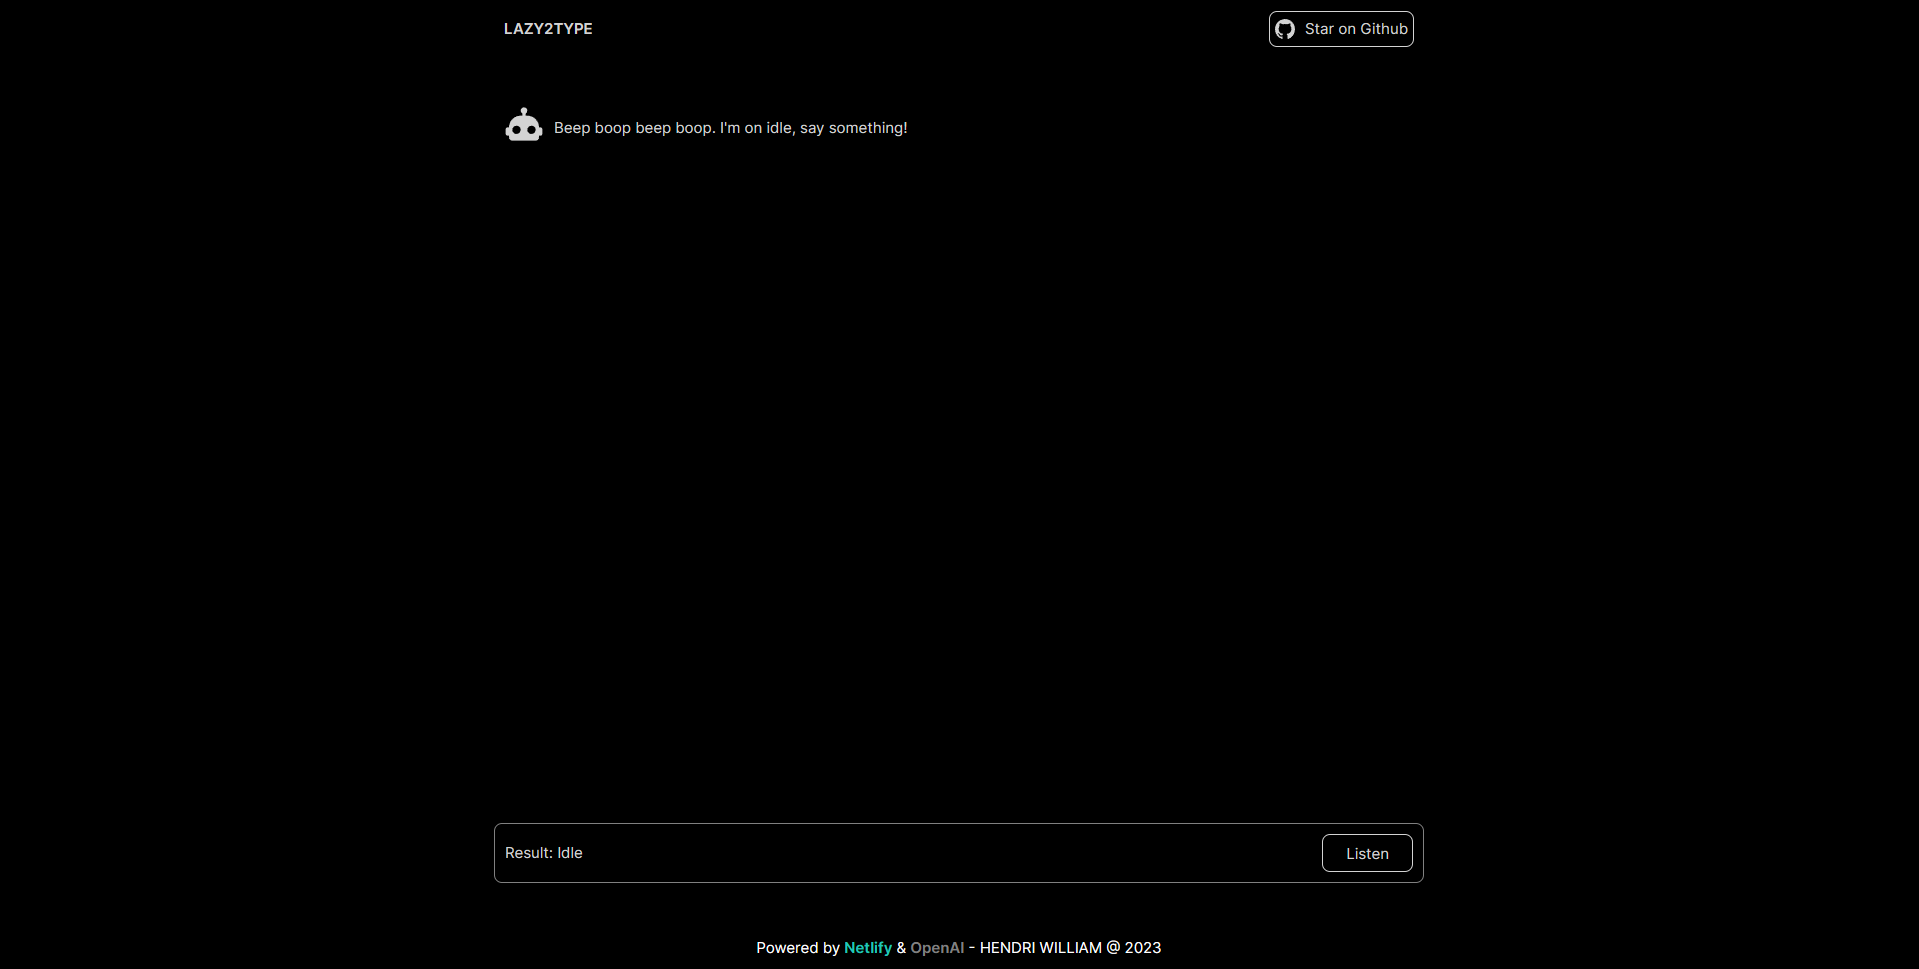
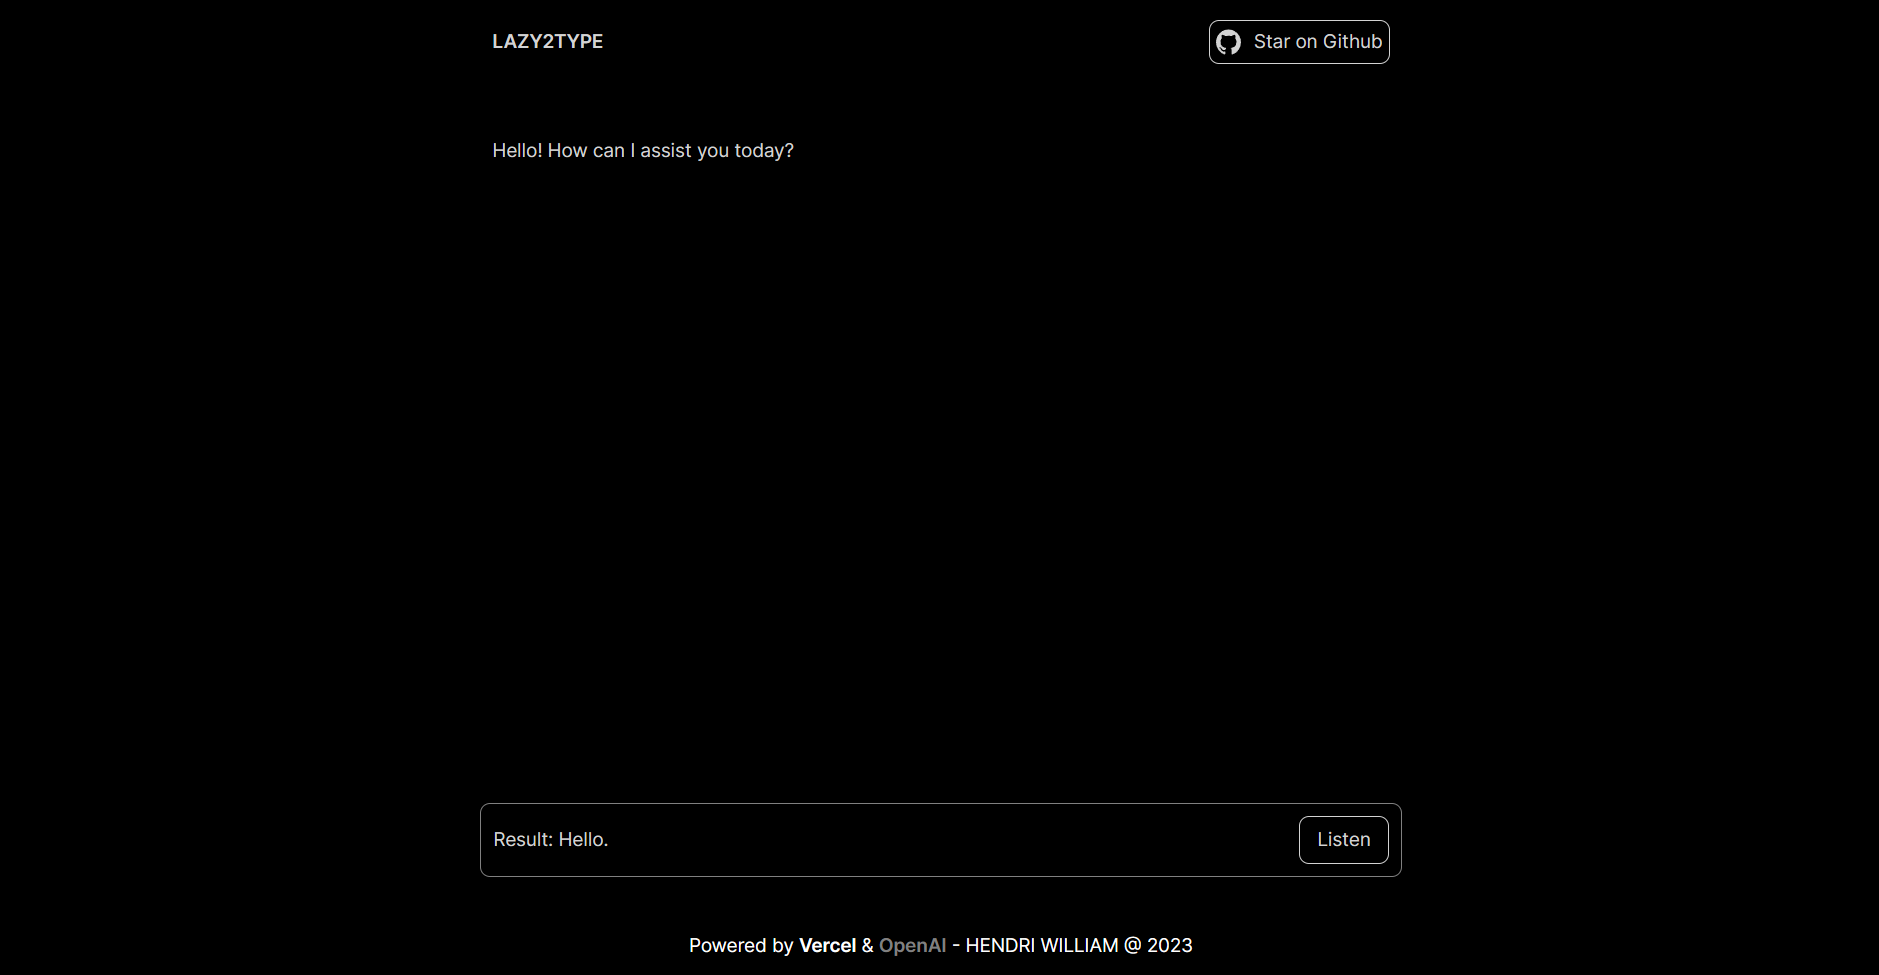
FIX: footer text

diff --git a/src/components/UI/Footer.vue b/src/components/UI/Footer.vue
@@ -1,7 +1,7 @@
 <template>
     <div class="footer">
         <p class="footer__context">
-            Powered by <span>Netlify</span> & <span>OpenAI</span> - HENDRI
+            Powered by <span>Vercel</span> & <span>OpenAI</span> - HENDRI
             WILLIAM @ 2023
         </p>
     </div>
@@ -17,7 +17,7 @@
     align-items: center;
     &__context {
         :first-child {
-            color: #20c6b7;
+            color: white;
             font-weight: 600;
         }
 
